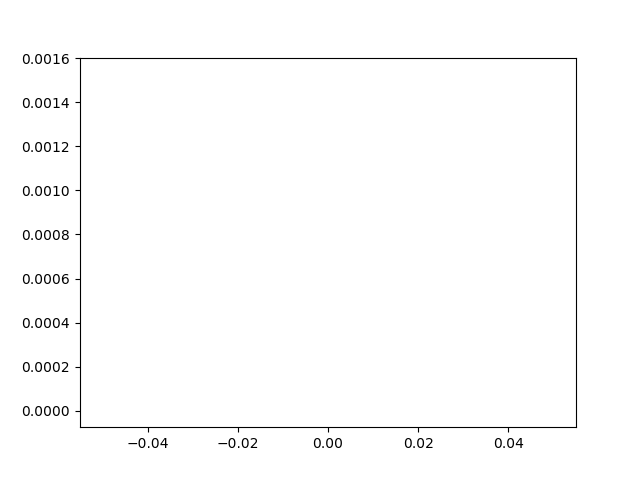
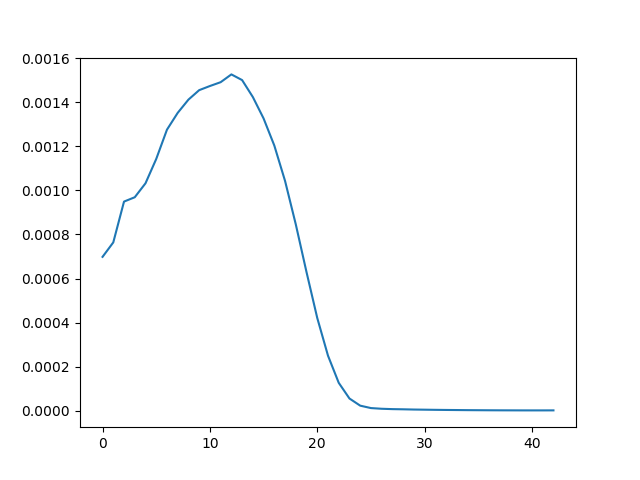
Changed parSNR to plot power spectrum array instead of matrix

diff --git a/parSNR.py b/parSNR.py
@@ -48,8 +48,9 @@ def PowerSpectrum(psd2D, sizedeg = 12.25, size = 2048, bins = 50):
 def SNR(powerspecs, covar):
     #Calculate Signal-to-Noise ratio given a set of powerspectra 
     
-    powermean = np.mat(np.mean(powerspecs, axis = 0))    
-    SNRsquare = powermean * (covar.I * powermean.T)
+    powermean = np.mean(powerspecs, axis = 0) 
+    powermeanmat = np.mat(powermean)    
+    SNRsquare = powermeanmat * (covar.I * powermeanmat.T)
     
     return np.sqrt(SNRsquare), powermean
 
@@ -87,14 +88,14 @@ pool.close()
 covar = np.mat(np.cov(powspecs, rowvar = 0))
 correl = corr_mat(covar)
 
-print(covar)
-print(correl)
+#print(covar)
+#print(correl)
 
 s2r, powermean = SNR(powspecs, covar)
-print(s2r)
+#print(s2r)
+print(powermean)
 
 fig = plt.figure()
-ax = plt.subplot(111)
 plt.plot(powermean)
-plt.show()
 fig.savefig("plot.png")
+#plt.show()
